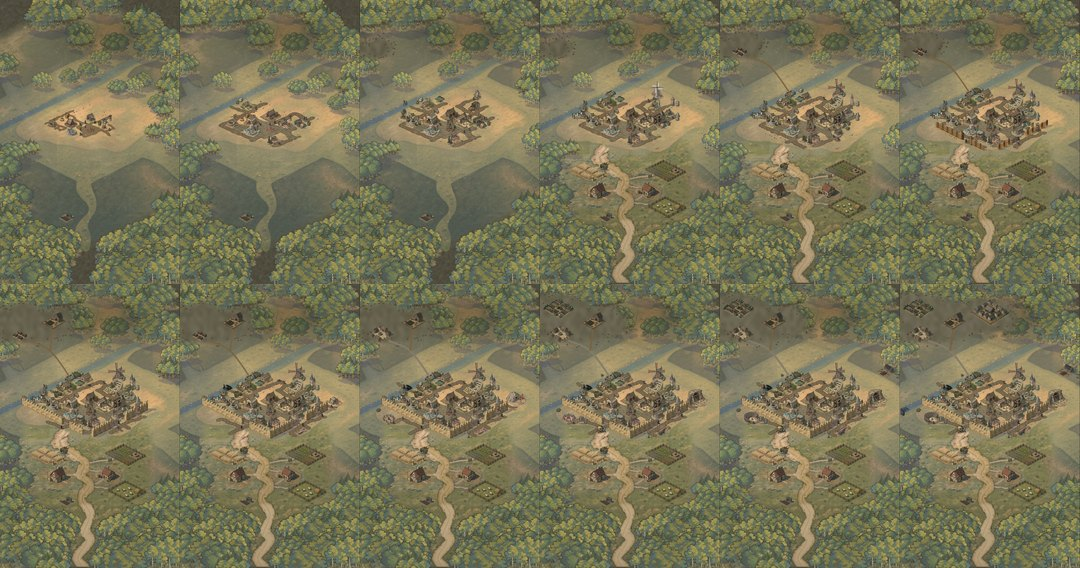
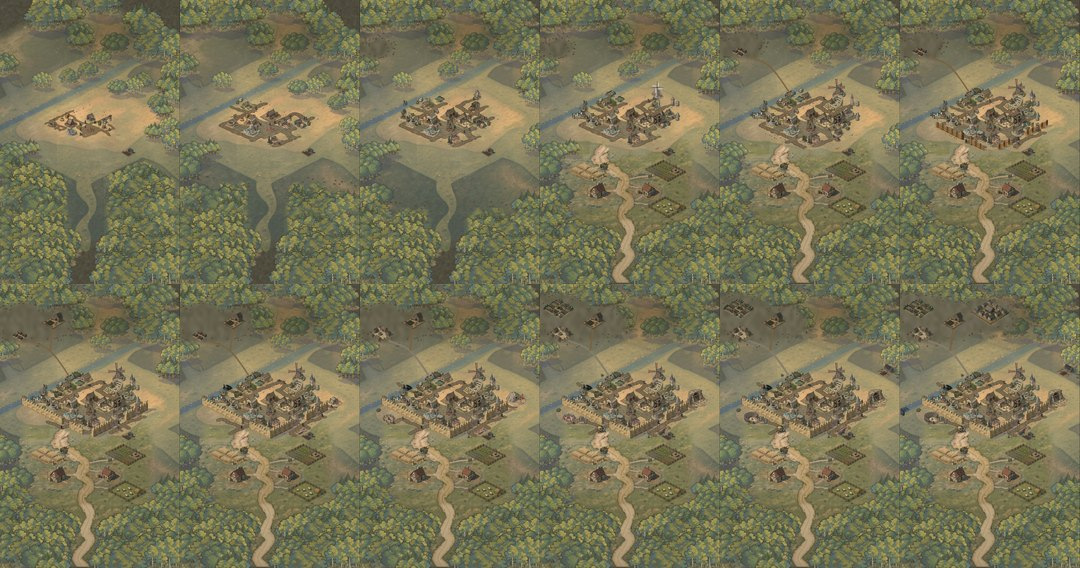
docs(growth): lisiere may recede, montage pieces kept, south forest at tiers 1 to 3 on strip F

diff --git a/scripts/growth/page.html b/scripts/growth/page.html
@@ -53,9 +53,10 @@ ul { margin: 0; padding-left: 1.2em; max-width: 68ch; display: grid; gap: 4px; }
 </style>
 <main>
 <header style="display:grid;gap:10px">
-  <p class="doux">Piste GROWTH, 04/11/2026, à choisir au réveil. Rien n'est peint pour de bon, rien n'est posé dans le jeu.</p>
+  <p class="doux">Piste GROWTH, 04/11/2026. Rien n'est peint pour de bon, rien n'est posé dans le jeu.</p>
   <h1>Comment les alentours racontent la prospérité</h1>
-  <p>Trois idées, palier par palier. <b>Mon avis : un mélange, la route de R et la forêt qui recule de F au nord-ouest.</b> R est celle qui tient le mieux à l'image. Les trois juges préfèrent F sur le texte, mais son montage est le moins réussi. Le mélange n'est pas dessiné.</p>
+  <p><b>Tu as choisi F, la forêt recule</b>, avec les essais de pièces du montage et le recul permis dans <code>lisiere</code>. Nouveau, à ta demande : aux paliers 1 à 3, la forêt couvre le sud et recule en laissant des souches, puis le coin arrive au palier 4. Fais glisser la réglette de 1 à 4 pour le voir.</p>
+  <p>Ton plan du palier 12 n'est pas dans ces images : LAYOUT ne l'a pas encore appliqué. La bande F sera refaite sur ses rendus avant toute peinture, avec la route qui évite l'observatoire et le moulin, et le bosquet qui garde sa forêt derrière lui.</p>
 </header>
 
 <section>
@@ -96,7 +97,7 @@ ul { margin: 0; padding-left: 1.2em; max-width: 68ch; display: grid; gap: 4px; }
 
 <section>
   <h2>La nuit</h2>
-  <p>Klein repeint le jour de chaque montage, paliers 3, 6, 9 et 12. Ces images <b>ne sont pas cohérentes entre elles</b> : teinte qui varie, palier 9 de T presque en plein jour, palier 12 de F en filtre bleu, chaîne de R trop voyante, feux inventés. Regarde seulement quelles lumières s'ajoutent. La première colonne est la nuit d'aujourd'hui.</p>
+  <p>Klein repeint le jour de chaque montage, paliers 3, 6, 9 et 12. Ces images <b>ne sont pas cohérentes entre elles</b> : teinte qui varie, palier 9 de T presque en plein jour, palier 12 de F en filtre bleu, chaîne de R trop voyante, feux inventés. Regarde seulement quelles lumières s'ajoutent. La première colonne est la nuit d'aujourd'hui. Les nuits de F datent d'avant la forêt du sud.</p>
   <div class="defile"><div id="nuits" style="display:grid;grid-template-columns:repeat(5,minmax(130px,1fr));gap:6px;min-width:700px"></div></div>
 </section>
 
@@ -113,7 +114,6 @@ ul { margin: 0; padding-left: 1.2em; max-width: 68ch; display: grid; gap: 4px; }
   <label for="note">Mélange, reprise, question de la lisière, ou ce qui ne va pas :</label>
   <textarea id="note" placeholder="Par exemple : la route de R, le recul de F au nord-ouest, pas de pavés."></textarea>
   <p id="etat" role="status"></p>
-  <p class="doux">Une question précise pour toi : la forêt peut-elle reculer dans la zone du crop <code>lisiere</code> ? LAYOUT le fait reculer une fois et te le fera revalider. F en dépend.</p>
 </section>
 
 <section>

diff --git a/scripts/growth/montage.py b/scripts/growth/montage.py
@@ -4,13 +4,14 @@ A concept page only, never in the game. A pure montage cannot drift between tier
 edits from tier to tier did not hold (progress.md). Places are indicative: LAYOUT's enlarged map does not exist yet.
     montage.py        writes scratch/montage/<P>_<tier>.png, and img/bande-<P>.jpg
     montage.py nuit   then Klein night edits of tiers 3 6 9 12 from those montages (scratch/montage/nuit_<P>_<tier>.png, img/nuit-<P>.jpg)"""
+import math
 import pathlib
 import random
 import sys
 
 ROOT = pathlib.Path(__file__).resolve().parent.parent.parent
 sys.path.insert(0, str(ROOT / "scripts" / "growth"))
-from PIL import Image, ImageDraw, ImageEnhance, ImageFilter, ImageStat
+from PIL import Image, ImageDraw, ImageEnhance, ImageFilter, ImageOps, ImageStat
 
 D = ROOT / "docs/designs/village/growth"
 S = D / "scratch"
@@ -49,7 +50,8 @@ P = {
                   (12, FIN, COBBLE, [(400, 960), (620, 790), (720, 700)])],
     },
     "F": {
-        "pieces": [LEAN,
+        # The lean-to stands by the camp: the south land is forest at tier 1.
+        "pieces": [(1, FIN, "ferme1_x_v2", 770, 1395, 90),
                    (5, 8, "hameau1_F_v2", 120, 790, 100), (9, FIN, "hameau2_F_v1", 120, 780, 165),
                    (7, FIN, "ferme3_F_v1", 320, 700, 150),
                    (10, FIN, "ferme4_F_v1", 110, 625, 190),
@@ -128,9 +130,44 @@ def clearing(canvas, polygon, seed):
             d.ellipse((x - 4, y - 2.5, x + 4, y + 2.5), fill=(120, 96, 66), outline=(15, 21, 24))
 
 
+# F: forest on the south land at tiers 1 to 3 (Guillaume, 04/11), where the corner arrives at tier 4. Polygons in the full frame, the path's corridor left open.
+SUD_G = [(0, 1380), (200, 1435), (440, 1560), (460, 1600), (530, 1730), (470, 1850), (440, 1900), (0, 1900)]
+SUD_D = [(550, 1575), (850, 1425), (1080, 1580), (1080, 1900), (580, 1930), (530, 1880), (580, 1730)]
+# The line the forest has pulled back to, by tier: all of it at tier 1, then less, and gone at tier 4.
+SUD_LIGNE = {1: 0, 2: 1610, 3: 1760}
+
+
+def foret_sud(canvas, tier):
+    """The real south forest of the render, moved up over the bare land, with stumps along the line it has pulled back to."""
+    limite = SUD_LIGNE[tier]
+    mask = Image.new("L", canvas.size, 0)
+    d = ImageDraw.Draw(mask)
+    d.polygon(SUD_G, fill=255)
+    d.polygon(SUD_D, fill=255)
+    # An irregular cut, a stand of trees and not a ruled line.
+    d.polygon([(0, 0), (1080, 0), *[(x, limite + 34 * math.sin(x / 70) + 18 * math.sin(x / 23)) for x in range(1080, -1, -20)]], fill=0)
+    mask = mask.filter(ImageFilter.GaussianBlur(7))
+    forest = canvas.copy()  # outside every patch: the render itself, never black
+    gauche, droite = canvas.crop((0, 1810, 430, 2180)), canvas.crop((620, 1780, 1080, 2135))
+    for patch, at in ((gauche, (0, 1660)), (ImageOps.mirror(droite), (620, 1680)), (gauche, (0, 1380)), (droite, (620, 1425))):
+        edge = Image.new("L", patch.size, 0)  # soft on all sides, so no patch shows a ruled edge
+        ImageDraw.Draw(edge).rectangle((26, 26, patch.width - 26, patch.height - 26), fill=255)
+        forest.paste(patch, at, edge.filter(ImageFilter.GaussianBlur(18)))
+    canvas.paste(forest, (0, 0), mask)
+    if limite:
+        rng = random.Random(tier)
+        draw = ImageDraw.Draw(canvas)
+        for _ in range(26):
+            x = rng.choice((rng.uniform(20, 430), rng.uniform(610, 1060)))
+            y = limite - rng.uniform(6, 70)
+            draw.ellipse((x - 5, y - 3, x + 5, y + 3), fill=(120, 96, 66), outline=(15, 21, 24))
+
+
 def compose(prop, tier):
     canvas = Image.open(FIXE / f"t{tier}-jour.png").convert("RGB")
     spec = P[prop]
+    if prop == "F" and tier in SUD_LIGNE:
+        foret_sud(canvas, tier)
     last = None
     for first, polygon in spec.get("clear", []):
         if first <= tier:

diff --git a/docs/designs/village/growth/handoff.md b/docs/designs/village/growth/handoff.md
@@ -6,3 +6,4 @@
 - **LAYOUT** : GROWTH aura besoin d'une route vers le nord avec un passage de rivière, et d'emplacements hors de l'île en plus des quartiers.
 - **POLISH** : hors de l'île, aucune fenêtre allumée à aucun palier. Les chaumières du coin restent noires la nuit. GROWTH cuira celles de ses pièces. Celles du coin touchent un crop verrouillé : à décider avec Guillaume.
 - **LAYOUT** : Guillaume a choisi F, la forêt recule. Il faudra sur la carte agrandie, dans `slots.md` : une clairière à l'ouest du bosquet, au-dessus de l'observatoire, pour un hameau, deux fermes et un bourg ; une route qui évite l'observatoire et le moulin ; le bosquet garde la forêt derrière lui. `img/plan-sur-F.jpg` montre où tombe ton plan.
+- **LAYOUT** : le recul de F est permis dans `lisiere` (réponse de Guillaume, 04/11). Et la forêt couvrira le sud aux paliers 1 à 3 : si ton travail touche `massesForet` ou `lisiereSud`, dis-le dans ton `handoff.md`, GROWTH passera après toi. La bande F montre le résultat voulu : `growth/img/bande-F.jpg`.

diff --git a/docs/designs/village/growth/checkpoint.md b/docs/designs/village/growth/checkpoint.md
@@ -14,7 +14,13 @@ Tes réponses sur la page sont dans la collection `picks`, document `guillaume`.
 
 ## Réponse de Guillaume
 
-04/11, dans la session : « je prefere -> La foret ». **F est choisie.** Pas de mélange. Restent ouverts : les essais de pièces (rien dans `picks` sur la page) et la zone du crop `lisiere`.
+04/11, dans la session : « je prefere -> La foret ». **F est choisie.** Pas de mélange. 
+
+04/11, ensuite : « oui la forêt peut reculer dans lisiere, garde ceux du montage. D'ailleurs on peut mettre de la forêt en bas dans les premiers paliers et la faire disparaître. »
+
+- **`lisiere`** : le recul y est permis.
+- **Pièces** : les essais du montage. `ferme1_x_v2`, `ferme3_F_v1`, `ferme3_F_v2`, `ferme4_F_v1`, `hameau1_F_v2`, `hameau2_F_v1`, `bourg_F_v1` ; routes à choisir à la peinture, le montage les trace sans concept.
+- **Forêt du sud aux paliers 1 à 3** : ajoutée à la bande F (`img/bande-F.jpg`), item G15.
 
 ## Ce qui change avec ton plan du palier 12
 

diff --git a/docs/designs/village/growth/progress.md b/docs/designs/village/growth/progress.md
@@ -10,5 +10,6 @@
 Ce que la piste ajoute au palier 12 si le choix suit le plan : 0 image montée, 0 chose qui bouge, environ 7 Mo de fichiers (estimation), à confronter à PROBE.
 
 - 04/11 Choix de Guillaume : F. Plan du palier 12 reporté sur F : `img/plan-sur-F.jpg`.
+- 04/11 Forêt du sud aux paliers 1 à 3 dans la bande F, montage : `img/bande-F.jpg`. Montée en plus aux paliers 1 à 3 : les masses de forêt qu'elle ajoute, à compter à G15.
 
-**La suite** : lire `picks/guillaume` sur la page (`ArtifactData`, collection `picks`) et `checkpoint.md`. F est choisie. G14 attend le plan de LAYOUT (L6, L7), G8 attend G14 et le budget de PROBE. G9 attend le choix sur LAYOUT, G11 sa fusion.
+**La suite** : réponses de Guillaume dans `checkpoint.md`. F est choisie. G14 attend le plan de LAYOUT (L6, L7), G8 attend G14 et le budget de PROBE. G9 attend le choix sur LAYOUT, G11 sa fusion.

diff --git a/docs/designs/village/growth/decisions.md b/docs/designs/village/growth/decisions.md
@@ -10,3 +10,4 @@
 - 04/11 **Pas de FLUX 3 Image.** Klein seul, sonde `growth_klein` : ni peinture finale ni pose ce soir.
 - 04/11 **Guillaume choisit F, la forêt recule.** Mon mélange R + F est écarté.
 - 04/11 **Le recul de F reste à gauche du bosquet** : son plan met le bosquet au pied de la forêt du fond (règle 23). Bourg et route de F à replacer sur les rendus de LAYOUT (G14), avant la peinture.
+- 04/11 **Forêt au sud aux paliers 1 à 3, demandée par Guillaume.** Elle couvre le sol nu, recule en laissant des souches à 2 et 3, disparaît au palier 4 où le coin arrive. Le coin et les crops, jugés à partir du palier 6, ne bougent pas. L'appentis du palier 1 passe près du camp, sinon la forêt le couvre. Dans le jeu, `lisiereSud` donne les mêmes masses à tous les paliers : il faudra le rendre dépendant du palier (G15).
